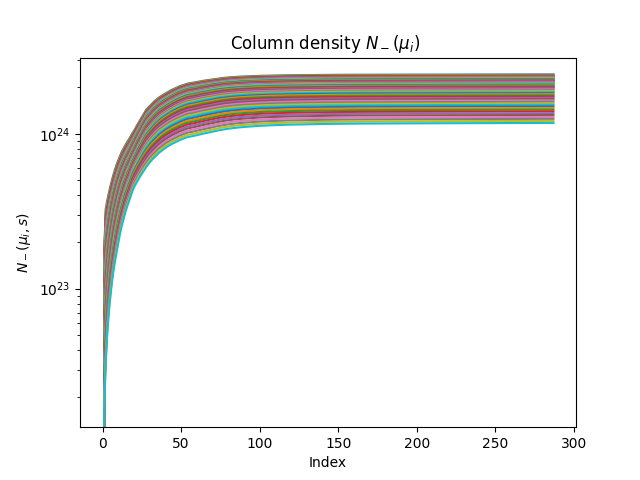
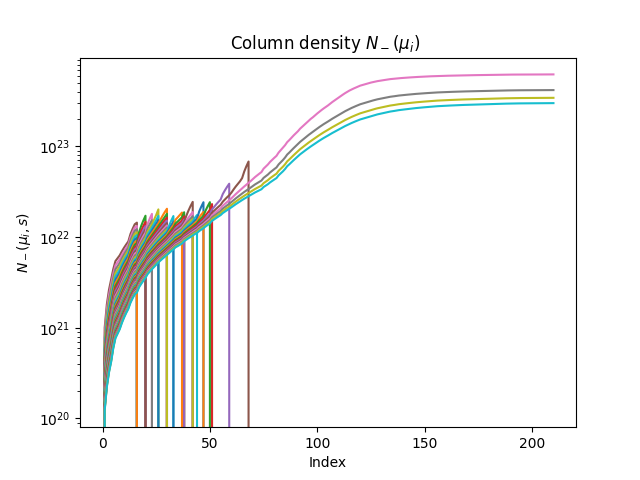
updates: padovani.py two args | stats.py R vs n_g | paarse.py aspect ratio

diff --git a/stats.py b/stats.py
@@ -22,15 +22,16 @@ if len(sys.argv)>4:
     num_file      = str(sys.argv[4]) 
 
 else:
-    rloc            = 0.1
+    rloc            = 0.
     max_cycles      = 700
     case            = 'ideal'
     num_file        = '430'
-seed            = 12345 
+
+seed = 12345 
 sys.argv.append(seed)
 
-dense_cloud = 1.0e+4
-threshold = 1.0e+1
+dense_cloud = 1.0e+2
+threshold = 1.0e+2
 print(sys.argv, N)
 
 reduction_factor_at_numb_density = defaultdict()
@@ -222,7 +223,7 @@ def pocket_finder(bfield, numb, p_r, plot=False):
         plot_field(axs_bfield, bfield, "Magnetic Field")
 
         plt.tight_layout()
-        plt.savefig('./mosaic.png')
+        plt.savefig('./images/columns/mosaic.png')
         plt.close(fig)
 
     return (indexes, peaks), (index_global_max, upline)
@@ -535,6 +536,7 @@ def eval_reduction(field, numb, follow_index, threshold):
 
         if count > 10:
             flag = True
+            R10[-1] = 1.0
             print(f"Most common value: {most_common_value} (appears {count} times): R = ", R)
 
     return R10, Numb100, B100
@@ -861,7 +863,7 @@ def uniform_in_3d(no, rloc=1.0, ncrit=threshold): # modify
             plt.xlabel("$r$ (pc)")
             plt.grid()
             plt.tight_layout()
-            plt.savefig('./images/pdf_r.png')
+            plt.savefig('./images/columns/pdf_r.png')
             plt.close()
 
             plt.hist(theta, bins=bins, color = 'skyblue', density =True)
@@ -870,7 +872,7 @@ def uniform_in_3d(no, rloc=1.0, ncrit=threshold): # modify
             plt.xlabel('$\\theta$ (rad)')
             plt.grid()
             plt.tight_layout()
-            plt.savefig('./images/pdf_theta.png')
+            plt.savefig('./images/columns/pdf_theta.png')
             plt.close()
         return np.array([[a,b,c] for a,b,c in zip(x,y,z)])
 
@@ -892,8 +894,8 @@ def uniform_in_3d(no, rloc=1.0, ncrit=threshold): # modify
     rho_vector = np.array(deepcopy(valid_vectors))
     return rho_vector
 
-x_input = np.vstack([uniform_in_3d(max_cycles, rloc, ncrit=dense_cloud), np.array([0.0,0.0,0.0])])
-
+#x_input = np.vstack([uniform_in_3d(max_cycles, rloc, ncrit=dense_cloud), np.array([0.0,0.0,0.0])])
+x_input = uniform_in_3d(max_cycles, rloc, ncrit=dense_cloud)
 # directions
 directions = fibonacci_sphere(20)
 print("No. of directions", directions.shape)
@@ -984,7 +986,7 @@ if True:
     
     # Layout and save
     fig.tight_layout()
-    plt.savefig('./column_compar.png')
+    plt.savefig('./images/columns/column_compar.png')
     plt.close()
 
 log_ionization_path_l, log_ionization_path_h = ionization_rate_fit(c_rs[order])
@@ -1027,9 +1029,86 @@ if True:
     
     # Layout and save
     fig.tight_layout()
-    plt.savefig('./zeta_compar.png')
+    plt.savefig('./images/columns/zeta_compar.png')
     plt.close()
 
+def reduction_density(reduction_data, density_data, bound = ''):
+
+    reduction_data = np.array(reduction_data)
+    density_data = np.array(density_data)
+    def stats(n):
+        sample_r = []
+        for i in range(0, len(density_data)):
+            if np.abs(np.log10(density_data[i]/n)) < 1/8:
+                sample_r.append(reduction_data[i])
+        sample_r.sort()
+        if len(sample_r) == 0:
+            return [np.nan, np.nan, np.nan]
+
+        mean   = np.mean(sample_r)
+        median = np.quantile(sample_r, .5)
+        ten    = np.quantile(sample_r, .1)
+        return [mean, median, ten]
+        
+    mask = reduction_data != 1
+    reduction_data = reduction_data[mask]
+    density_data = density_data[mask]
+    fraction = (mask.shape[0] - np.sum(mask)) / mask.shape[0] # {R = 1}/{R}
+    Npoints = len(reduction_data)
+    n_min, n_max = np.log10(np.min(density_data)), np.log10(np.max(density_data))
+    x_n = np.logspace(n_min, n_max, Npoints)
+    mean_vec = np.zeros(Npoints)
+    median_vec = np.zeros(Npoints)
+    ten_vec = np.zeros(Npoints)
+    for i in range(0, Npoints):
+        s = stats(x_n[i])
+        mean_vec[i] = s[0]
+        median_vec[i] = s[1]
+        ten_vec[i] = s[2]
+
+                
+    rdcut = []
+    for i in range(0,Npoints):
+        if density_data[i] > n_min:
+            rdcut = rdcut + [reduction_data[i]]
+
+
+    fig = plt.figure(figsize = (12, 6))
+    ax1 = fig.add_subplot(121)
+    ax1.hist(rdcut, round(np.sqrt(Npoints)))
+    ax1.set_xlabel('Reduction factor', fontsize = 20)
+    ax1.set_ylabel('number', fontsize = 20)
+    ax1.set_title(f't = {time_value}', fontsize = 20)
+    plt.setp(ax1.get_xticklabels(), fontsize = 16)
+    plt.setp(ax1.get_yticklabels(), fontsize = 16)
+    ax2 = fig.add_subplot(122)
+    l1, = ax2.plot(x_n, mean_vec)
+    l2, = ax2.plot(x_n, median_vec)
+    l3, = ax2.plot(x_n, ten_vec)
+    try:
+        ax2.scatter(density_data, reduction_data, alpha = 0.5, color = 'grey')
+    except:
+        pass
+    plt.legend((l1, l2, l3), ('mean', 'median', '10$^{\\rm th}$ percentile'), loc = "lower right", prop = {'size':14.0}, ncol =1, numpoints = 5, handlelength = 3.5)
+    plt.xscale('log')
+    plt.ylim(0.25, 1.05)
+    ax2.set_ylabel('Reduction factor', fontsize = 20)
+    ax2.set_xlabel('gas density (hydrogens per cm$^3$)', fontsize = 20)
+    ax2.set_title(f'f(R=1) = {fraction}', fontsize = 20)
+    plt.setp(ax2.get_xticklabels(), fontsize = 16)
+    plt.setp(ax2.get_yticklabels(), fontsize = 16)
+    fig.subplots_adjust(left = .1)
+    fig.subplots_adjust(bottom = .15)
+    fig.subplots_adjust(top = .98)
+    fig.subplots_adjust(right = .98)
+    fig.tight_layout()
+
+    #plt.savefig('histograms/pocket_statistics_ks.pdf')
+    plt.savefig(f'./images/reduction/pocket_stats{bound}.png')
+
+reduction_density(r_l, n_rs, 'l')
+
+reduction_density(r_u, n_rs, 'u')
 
 if False:
     try:
@@ -1075,6 +1154,7 @@ if False:
         cbar = plt.colorbar(sm, ax=ax, shrink=0.8)
         cbar.set_label('Magnetic Field Strength')
         plt.savefig(os.path.join(children_folder,f"FieldTopology{seed}.png"), bbox_inches='tight')
+        #plt.savefig(os.path.join(children_folder,f"FieldTopology{seed}.png"), bbox_inches='tight')
 
     except:
         print("Couldnt print B field structure")

diff --git a/padovani.py b/padovani.py
@@ -14,9 +14,6 @@ size = 1000
 Ei = 1.0e+0
 Ef = 1.0e+15
 
-N0 = 10e+19
-Nf = 10e+27
-
 n0 = 150 #cm−3 and 
 k  = 0.5 # –0.7
 
@@ -30,7 +27,7 @@ epsilon = 35.14620437477293
 Lstar = 1.4e-14
 
 # Flux constant (eV^-1 cm^-2 s^-1 sr^-1) C*(10e+6)**(0.1)/(Enot+6**2.8)
-Jstar = 2.43e+15*(10e+6)**(0.1)/(500e+6**2.8) # Proton in Low Regime (A. Ivlev 2015) https://iopscience.iop.org/article/10.1088/0004-637X/812/2/135
+Jstar = 2.43e+15*(10e+6)**(0.1)/(500e+6**2.8) # Proton in Low Regime (M. Padovani & A. Ivlev 2015) https://iopscience.iop.org/article/10.1088/0004-637X/812/2/135
 
 # Flux constant (eV^-1 cm^-2 s^-1)
 C = 2.43e+15*4*np.pi
@@ -100,7 +97,7 @@ if True: # Padovani & Alexei Models for CR Ionization-rate
     plt.close()
 
 if True:
-    line = int(sys.argv[-1])
+    line, mus = int(sys.argv[1]), int(sys.argv[2])
 
     import h5py
     import numpy as np
@@ -148,20 +145,20 @@ if True:
     print("magnetic_field:       ", magnetic_field.shape)
 
     am = np.argmax(magnetic_field)
-    numb_density    = numb_density[:am]
-    magnetic_field =  magnetic_field[:am]
-    radius_vector  =  radius_vector[:am, :]
+    #numb_density    = numb_density[:am]
+    #magnetic_field = magnetic_field[:am]
+    #radius_vector  =  radius_vector[:am, :]
     trajectory = np.cumsum(np.linalg.norm(radius_vector, axis=1))
-
+    #magnetic_field =  np.mean(magnetic_field)*magnetic_field/magnetic_field
     fig, axs = plt.subplot_mosaic([["a"], ["b"], ["c"]], figsize=(10, 8), layout="constrained")
     axs["a"].plot(trajectory, c="b"); axs["a"].set_title("Trajectory"); axs["a"].set_ylabel("Trajectory")
-    axs["b"].plot(numb_density, c="g"); axs["b"].set_title("Number Density"); axs["b"].set_ylabel("n (cm$^{-3}$)")
-    axs["c"].plot(magnetic_field, c="r"); axs["c"].set_title("Magnetic Field"); axs["c"].set_ylabel("B (μG)"); axs["c"].set_xlabel("Index")
+    axs["b"].plot(numb_density, c="g"); axs["b"].set_yscale("log"); axs["b"].set_title("Number Density"); axs["b"].set_ylabel("n (cm$^{-3}$)")
+    axs["c"].plot(magnetic_field, c="r"); axs["c"].set_yscale("log"); axs["c"].set_title("Magnetic Field"); axs["c"].set_ylabel("B (μG)"); axs["c"].set_xlabel("Index")
     plt.savefig("./images/i_rate/mosaic_plot.png"); plt.close()
     
 """ Column Densities N_+(mu, s) & N_-(mu, s)"""
 
-mu_ism = np.logspace(-1, 0, num=50) #np.array([1.0])#
+mu_ism = np.linspace(0, 1, mus) #np.logspace(-10, 0, num=50) #
 
 def column_density(radius_vector, magnetic_field, numb_density, direction=''):
     trajectory = np.cumsum(np.linalg.norm(radius_vector, axis=1)) #np.insert(, 0, 0.0)
@@ -180,10 +177,10 @@ def column_density(radius_vector, magnetic_field, numb_density, direction=''):
             Bsprime = magnetic_field[j]
             mu_local2 = 1 - (Bsprime/B_ism) * (1 - mui_ism**2)
             
-            if (mu_local2 <= 0):
+            if (mu_local2 <= 1/100):
                 break
             mu_local[j,i] = np.sqrt(mu_local2)
-            dmu[j,i] = (mui_ism/mu_local[j,i])*(Bsprime/B_ism)*dmui[i]
+            dmu[j,i] = dmui[i]*(mui_ism/mu_local[j,i])*(Bsprime/B_ism)
             Nmu[j, i] = Nmu[j - 1, i] + n_g * ds[j] / mu_local[j, i] if j > 0 else n_g * ds[j] / mu_local[j, i]
     fig, ax = plt.subplots()
 
@@ -282,8 +279,10 @@ def mirrored_column_density(radius_vector, magnetic_field, numb_density, Nmu, di
 
     for i, mu in enumerate(mu_ism):
         plt.plot(Nmir[:, i], label=fr'$\mu_{{\mathrm{{ISM}}}}={mu:.2f}$')
-    
-    plt.title("Column density $N_{mirr}^+(s)$")
+    if direction == 'fwd':
+        plt.title("Column density $N_{mirr}^+(s)$")
+    if direction == 'bwd':
+        plt.title("Column density $N_{mirr}^-(s)$")
     plt.xlabel("Steps")
     plt.yscale('log')
     plt.tight_layout()
@@ -324,8 +323,10 @@ def ionization_rate(Nmu, mu_local, dmu, direction = ''):
             #zeta_mui[j, l] = np.sum(spectra*sigma_ion*diff_energy)
 
     zeta = np.sum(dmu * zeta_mui, axis = 1)
-
-    plt.plot(zeta_mui, label=f'$\zeta_-(s) $', alpha = 0.5)
+    if 'fwd' in direction:
+        plt.plot(zeta_mui, label=f'$\zeta_+(s) $', alpha = 0.5)
+    if 'bwd' in direction:
+        plt.plot(zeta_mui, label=f'$\zeta_-(s) $', alpha = 0.5)
     plt.title(r"$\zeta(N, \mu)$", fontsize=12)
     plt.yscale('log')
     plt.tight_layout()
@@ -340,11 +341,12 @@ def ionization_rate(Nmu, mu_local, dmu, direction = ''):
 zeta_mir_fwd,  zeta_mui_mir_fwd  = ionization_rate(Nmir_fwd, mu_local_fwd[:max_arg,:], dmu_fwd[:max_arg,:], 'mir_fwd')
 zeta_mir_bwd, zeta_mui_mir_bwd = ionization_rate(Nmir_bwd, mu_local_bwd[max_arg+1:,:], dmu_bwd[max_arg+1:,:], 'mir_bwd')
 
-fig, ax = plt.subplots()
 Nmir = np.sum(np.concatenate((Nmir_fwd, Nmir_bwd[::-1]), axis=0), axis=1)
 zeta = np.concatenate((zeta_mir_fwd, zeta_mir_bwd[::-1]), axis=0)
 
-ax.scatter(Nmir, zeta, s=1, marker='x',color="red",label=fr"$\zeta$")
+fig, ax = plt.subplots()
+
+ax.scatter(Nmir, zeta, s=8, marker='|',color="red",label=fr"$\zeta$")
 #ax.plot(Nmir,label=fr"$\zeta$")
 ax.plot(Neff, 10**log_H(Neff), label = 'Model H')
 ax.plot(Neff, 10**log_L(Neff), label = 'Model L')

diff --git a/crutcher.py b/crutcher.py
@@ -263,7 +263,7 @@ if True:
     x = 10**xp
     #ax.plot(n1, b1, color='red')
     #ax.plot(n2, b2, color='red')
-    ax.plot(x,y, color='orange', label='Sim Exp Fit')
+    #ax.plot(x,y, color='orange', label='Sim Exp Fit')
     ax.plot(n_H, B, color='red', label='Crutcher et al, 2012')
     ax.scatter(numb_densities, magnetic_fields, color='dodgerblue', s = 0.5)
     ax.tick_params(axis='y')

diff --git a/parse.py b/parse.py
@@ -794,7 +794,7 @@ if True: # Statistical despcriptors and fraction
         ['fraction',  'fraction'],  # Span the full row
     ]
 
-    fig, axs = plt.subplot_mosaic(mosaic, figsize=(8, 20), sharex=True)
+    fig, axs = plt.subplot_mosaic(mosaic, figsize=(8, 12), sharex=True)
 
     default_colors = plt.rcParams['axes.prop_cycle'].by_key()['color']
 
